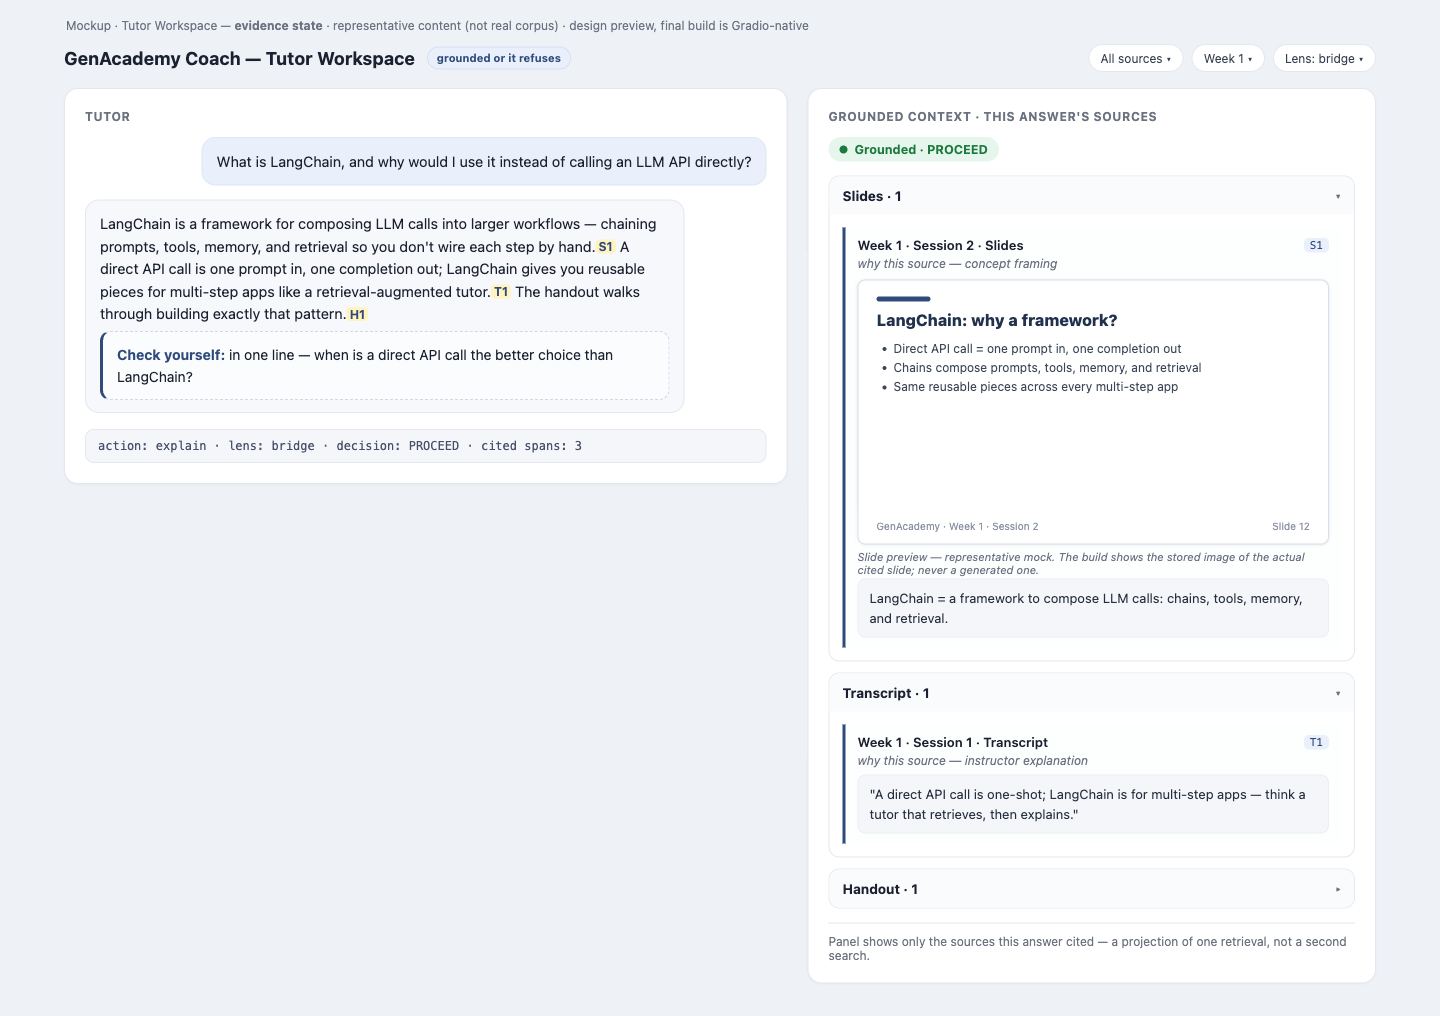
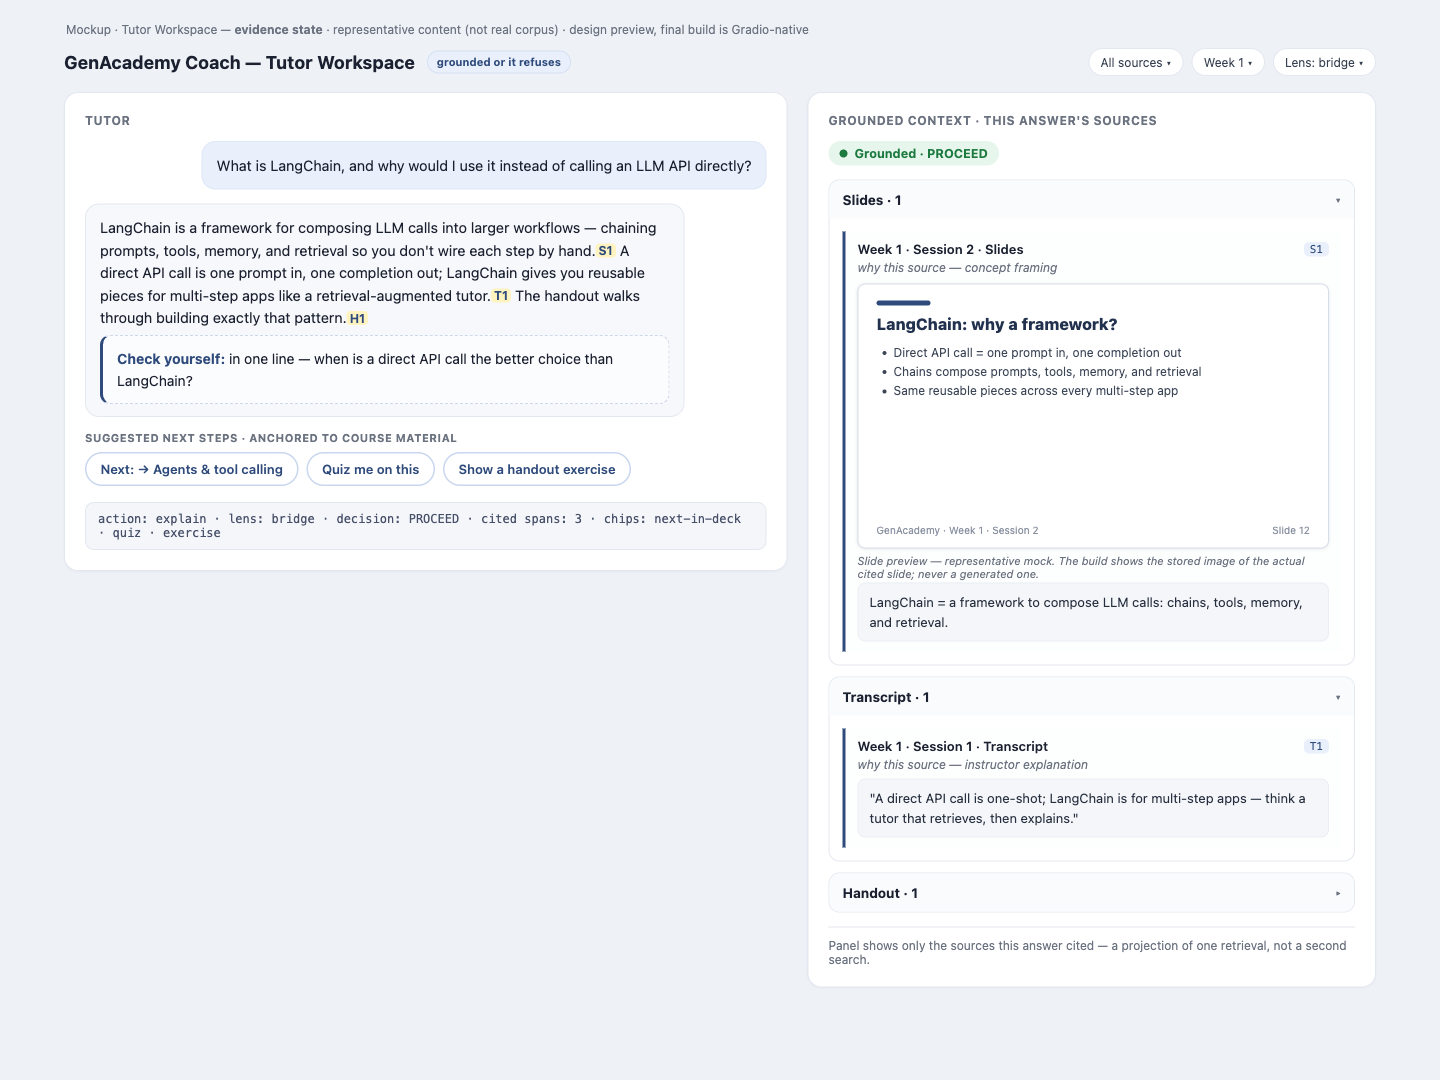
docs: visualize FR-W10 next-step chips in both mockup states
- evidence state: continue/comprehension/practice chips under the tutor reply
  ("Next: -> Agents & tool calling" / "Quiz me on this" / "Show a handout
  exercise"), trace line extended with the suggested-chip ids
- refusal state: anchored recovery chips ("Ask about: how AI models are
  trained (Week 1)" / "Browse Week-1 topics" / "Send to mentor"), trace shows
  chips: recovery
- both PNGs re-rendered; design doc + session context updated to reflect the
  completed visual package (PR #61 state)

Synthetic representative content only; labels carry no raw filenames.

diff --git a/docs/assets/mockups/tutor-workspace-evidence.html b/docs/assets/mockups/tutor-workspace-evidence.html
@@ -70,6 +70,15 @@
   .s-bullets{margin:0;padding-left:17px;font-size:12px;color:#3c4657;line-height:1.6}
   .s-foot{margin-top:auto;font-size:10px;color:#8b93a3;display:flex;justify-content:space-between}
   .figcap{font-size:11px;color:var(--muted);font-style:italic;margin-top:6px}
+  /* FR-W10 next-step suggestion chips (deterministic, anchor-validated) */
+  .sugg{margin-top:14px}
+  .sugg-label{font-size:11px;font-weight:700;letter-spacing:.5px;text-transform:uppercase;
+    color:var(--muted);margin-bottom:8px}
+  .chipsrow{display:flex;flex-wrap:wrap;gap:8px}
+  .chipbtn{font-size:13px;font-weight:600;color:var(--accent);background:#fff;
+    border:1.5px solid #c9d7ee;border-radius:999px;padding:8px 14px;text-decoration:none;
+    display:inline-flex;align-items:center;gap:7px}
+  .chipbtn:hover{background:var(--accent-soft)}
   .footnote{margin-top:14px;font-size:12px;color:var(--muted);border-top:1px solid var(--line);
     padding-top:11px}
 </style>
@@ -102,7 +111,15 @@
         The handout walks through building exactly that pattern.<a class="cite" href="#">H1</a>
         <div class="check"><b>Check yourself:</b> in one line — when is a direct API call the better choice than LangChain?</div>
       </div></div>
-      <div class="trace">action: explain · lens: bridge · decision: PROCEED · cited spans: 3</div>
+      <div class="sugg">
+        <div class="sugg-label">Suggested next steps · anchored to course material</div>
+        <div class="chipsrow">
+          <a class="chipbtn" href="#">Next: → Agents &amp; tool calling</a>
+          <a class="chipbtn" href="#">Quiz me on this</a>
+          <a class="chipbtn" href="#">Show a handout exercise</a>
+        </div>
+      </div>
+      <div class="trace">action: explain · lens: bridge · decision: PROCEED · cited spans: 3 · chips: next-in-deck · quiz · exercise</div>
     </div>
 
     <!-- RIGHT: grounded context panel -->

diff --git a/docs/assets/mockups/tutor-workspace-refusal.html b/docs/assets/mockups/tutor-workspace-refusal.html
@@ -51,6 +51,15 @@
     border-radius:999px;padding:5px 11px}
   .escalate{margin-top:13px}
   .escalate a{font-size:13px;font-weight:700;color:var(--accent);text-decoration:none}
+  /* FR-W10 recovery chips (anchored re-entry after a refusal) */
+  .sugg{margin-top:14px}
+  .sugg-label{font-size:11px;font-weight:700;letter-spacing:.5px;text-transform:uppercase;
+    color:var(--muted);margin-bottom:8px}
+  .chipsrow{display:flex;flex-wrap:wrap;gap:8px}
+  .chipbtn{font-size:13px;font-weight:600;color:var(--accent);background:#fff;
+    border:1.5px solid #c9d7ee;border-radius:999px;padding:8px 14px;text-decoration:none;
+    display:inline-flex;align-items:center;gap:7px}
+  .chipbtn:hover{background:var(--accent-soft)}
   .footnote{margin-top:14px;font-size:12px;color:var(--muted);border-top:1px solid var(--line);
     padding-top:11px}
 </style>
@@ -81,7 +90,15 @@
         Want me to flag it for a mentor?
         <br><a class="mentor-btn" href="#">Ask a mentor →</a>
       </div></div>
-      <div class="trace">action: refuse + escalate · decision: STOP · grounded spans: 0</div>
+      <div class="sugg">
+        <div class="sugg-label">Where you can go from here · anchored to course material</div>
+        <div class="chipsrow">
+          <a class="chipbtn" href="#">Ask about: how AI models are trained (Week 1)</a>
+          <a class="chipbtn" href="#">Browse Week-1 topics</a>
+          <a class="chipbtn" href="#">Send to mentor</a>
+        </div>
+      </div>
+      <div class="trace">action: refuse + escalate · decision: STOP · grounded spans: 0 · chips: recovery</div>
     </div>
 
     <!-- RIGHT: panel refusal state -->

diff --git a/docs/coach-v2-workspace-session-context.md b/docs/coach-v2-workspace-session-context.md
@@ -48,12 +48,12 @@ second-model reviewer) can pick up without re-deriving the reasoning.
 
 | Artifact | Path | State (2026-07-03) |
 |---|---|---|
-| Finalized PRD | `docs/coach-product-requirements.md` | written; uncommitted |
-| Target-architecture spec (phases A→I + Phase-A build detail) | `docs/superpowers/specs/2026-06-30-tutor-workspace-and-target-architecture-design.md` | written; uncommitted |
-| Suggestion-chips design (FR-W10) | `docs/coach-v2-next-step-suggestions.md` | written; uncommitted |
-| Public mockups (evidence + refusal, synthetic content) | `docs/assets/mockups/` | written; uncommitted; chips not yet visualized |
+| Finalized PRD | `docs/coach-product-requirements.md` | in PR #61 |
+| Target-architecture spec (phases A→I + Phase-A build detail) | `docs/superpowers/specs/2026-06-30-tutor-workspace-and-target-architecture-design.md` | in PR #61 |
+| Suggestion-chips design (FR-W10) | `docs/coach-v2-next-step-suggestions.md` | in PR #61 |
+| Public mockups (evidence + refusal, synthetic content) | `docs/assets/mockups/` | in PR #61; FR-W10 chips visualized in both states |
 | Private real-slide variant + rendered deck pages | gitignored local docs | local-only, never committed |
-| This context log | `docs/coach-v2-workspace-session-context.md` | written; uncommitted |
+| This context log | `docs/coach-v2-workspace-session-context.md` | in PR #61 |
 
 ## 3. Guardrails that shaped every decision
 
@@ -68,8 +68,8 @@ second-model reviewer) can pick up without re-deriving the reasoning.
 
 ## 4. Loose ends
 
-- **Commit pending owner approval:** PRD + spec + mockups + the two new docs → branch off `main`.
-- **Mockup update for FR-W10 chips** — designed, not yet visualized; on request.
+- **PR #61 open:** the design package on `docs/tutor-workspace-design-package` (PRD + spec + designs
+  + mockups, FR-W10 chips included); merge pending owner review.
 - **PR #58** (docs-only, pre-dates this thread) still open with one unaddressed finding (roadmap
   cut-order vs AD-13 framing); owner decision pending.
 - **Next workflow step after commit:** `writing-plans` for Phase 1, then build (first plan task:

diff --git a/docs/coach-v2-next-step-suggestions.md b/docs/coach-v2-next-step-suggestions.md
@@ -98,6 +98,7 @@ SuggestionChip {
 
 ## 9. Open items
 
-- Mockup update (chips in the evidence + refusal screens) — pending, on request.
+- Mockup update (chips in the evidence + refusal screens) — **done 2026-07-03**, both states in
+  `docs/assets/mockups/` (continue/comprehension/practice chips on evidence; recovery set on refusal).
 - Chip-click telemetry as curriculum signal for the Phase-I progress dashboard (forward-compatible;
   log chip ids only, never raw learner text).
